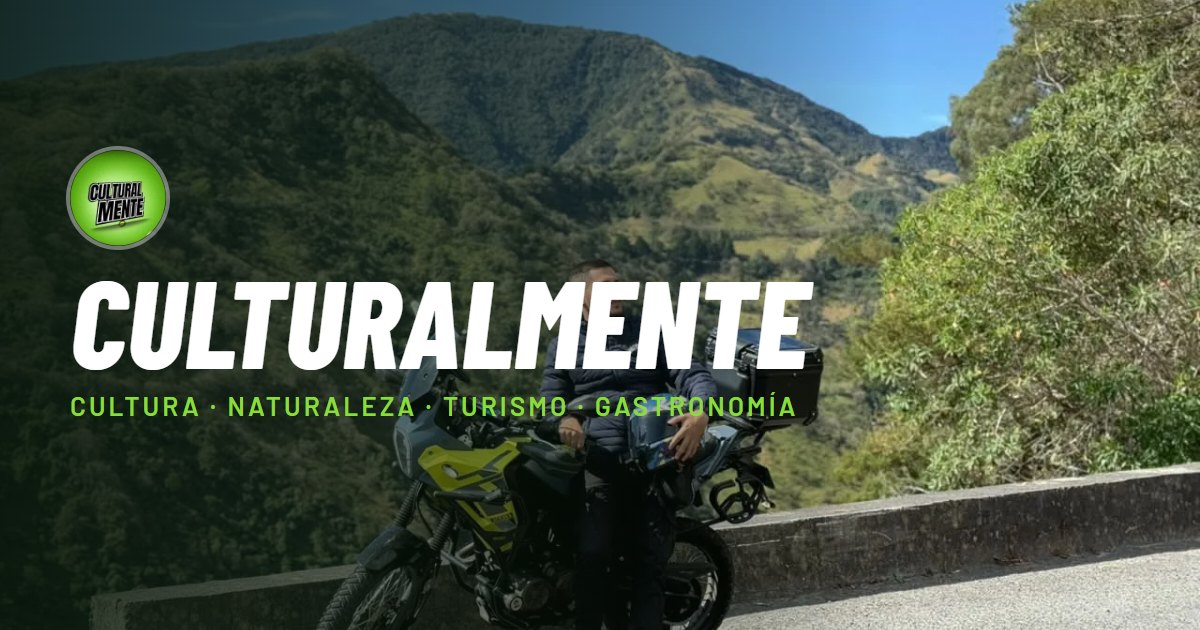
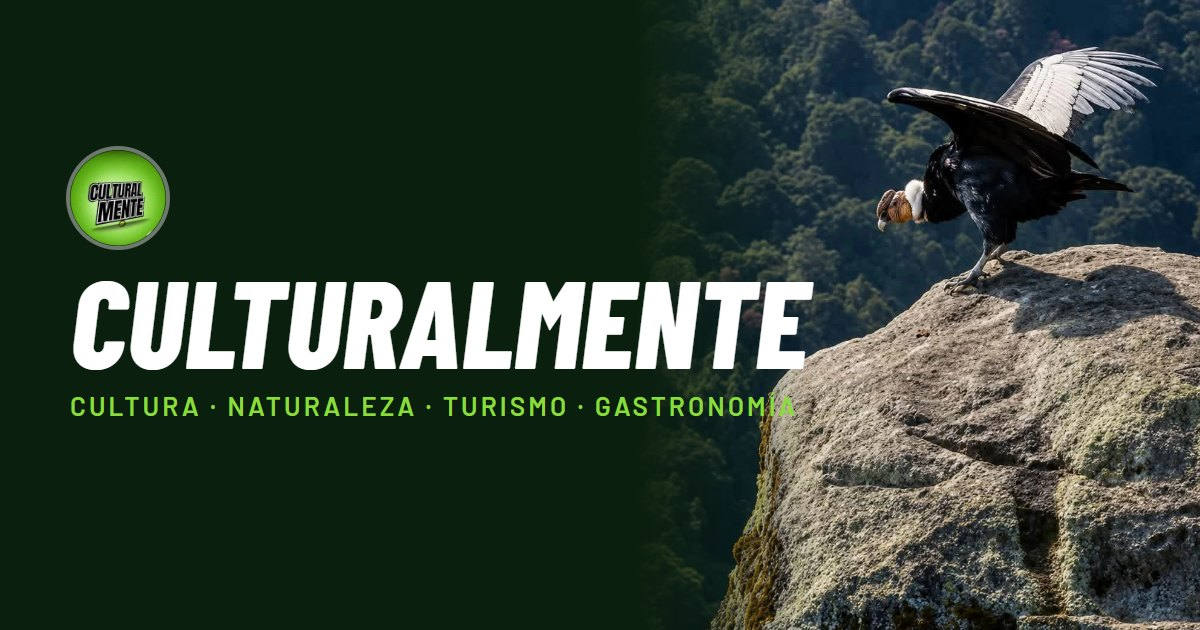
Portada con la foto del cóndor en resolución nativa
La imagen vertical ocupa la mitad derecha de la portada en escritorio
para no estirarse ni pixelarse; en celular va arriba a todo el ancho.

diff --git a/assets/styles.css b/assets/styles.css
@@ -392,3 +392,15 @@ footer .copy { grid-column: 1 / -1; padding-top: 22px; margin-top: 10px; border-
   .hero::after { background: linear-gradient(180deg, rgba(8, 22, 10, .45) 0%, rgba(8, 22, 10, 0) 16%, rgba(8, 22, 10, 0) 42%, #0E2412 66svh, #0E2412 100%); }
   .hero .wrap { padding-top: 54svh; padding-bottom: 76px; }
 }
+
+/* v3: condor hero, native-resolution split (no upscaling) */
+.hero { background: #0B1F0E; }
+.hero-bg { left: auto; right: 0; width: min(50%, 992px); }
+.hero-bg img { width: 100%; height: 100%; object-fit: cover; object-position: 55% 24%; }
+.hero::after { background: linear-gradient(90deg, #0B1F0E 0%, #0B1F0E 50%, rgba(11, 31, 14, .7) 56%, rgba(11, 31, 14, .25) 63%, rgba(11, 31, 14, 0) 70%), linear-gradient(180deg, rgba(11, 31, 14, .5) 0%, rgba(11, 31, 14, 0) 16%); }
+@media (min-width: 1985px) { .hero::after { background: linear-gradient(90deg, #0B1F0E 0%, #0B1F0E calc(100% - 992px), rgba(11, 31, 14, 0) calc(100% - 760px)); } }
+@media (max-width: 700px) {
+  .hero-bg { width: 100%; left: 0; bottom: auto; height: 64svh; }
+  .hero-bg img { width: 100%; object-position: 60% 26%; }
+  .hero::after { background: linear-gradient(180deg, rgba(11, 31, 14, .45) 0%, rgba(11, 31, 14, 0) 16%, rgba(11, 31, 14, 0) 40%, #0B1F0E 64svh, #0B1F0E 100%); }
+}

diff --git a/index.html b/index.html
@@ -81,10 +81,7 @@
 <main id="main">
   <!-- ============ Hero ============ -->
   <section class="hero" aria-labelledby="t-hero">
-    <picture class="hero-bg">
-      <source media="(max-width: 700px)" srcset="assets/img/hero-moto-m.webp">
-      <img src="assets/img/hero-moto.webp" srcset="assets/img/hero-moto-960.webp 960w, assets/img/hero-moto.webp 1280w" sizes="130vw" width="1280" height="960" fetchpriority="high" alt="Victor Hugo Molano junto a su moto en un mirador de las montañas del Cauca">
-    </picture>
+    <div class="hero-bg"><img src="assets/img/hero-condor.webp" srcset="assets/img/hero-condor-640.webp 640w, assets/img/hero-condor.webp 992w" sizes="(max-width: 700px) 100vw, 50vw" width="992" height="1586" fetchpriority="high" alt="Cóndor andino con las alas abiertas sobre una roca, frente a un bosque de montaña"></div>
     <div class="wrap">
       <div class="intro">
         <img class="logo-big" src="assets/img/logo.webp" width="160" height="160" alt="Logo de Culturalmente">
@@ -97,7 +94,6 @@
         </div>
       </div>
     </div>
-    <p class="hero-credit"><svg class="icon" aria-hidden="true"><use href="#i-pin"/></svg>Victor Hugo Molano · Cauca, Colombia</p>
   </section>
 
   <!-- ============ Historias ============ -->
